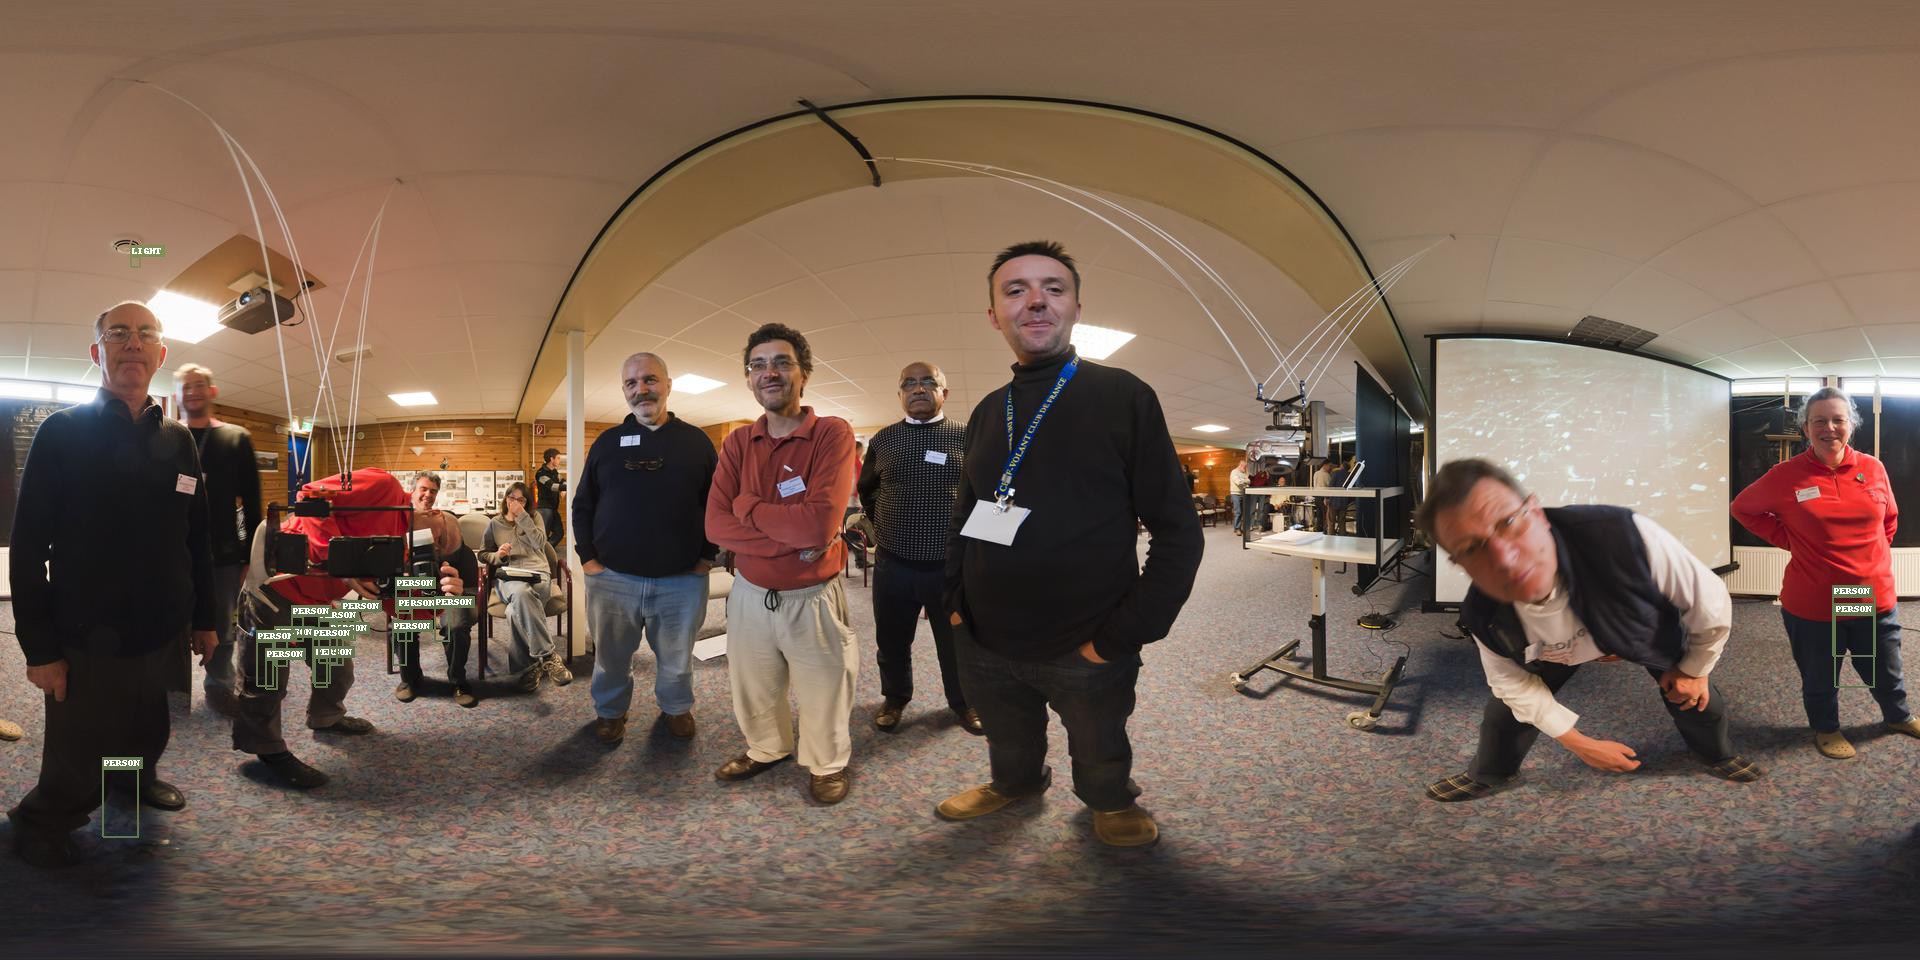
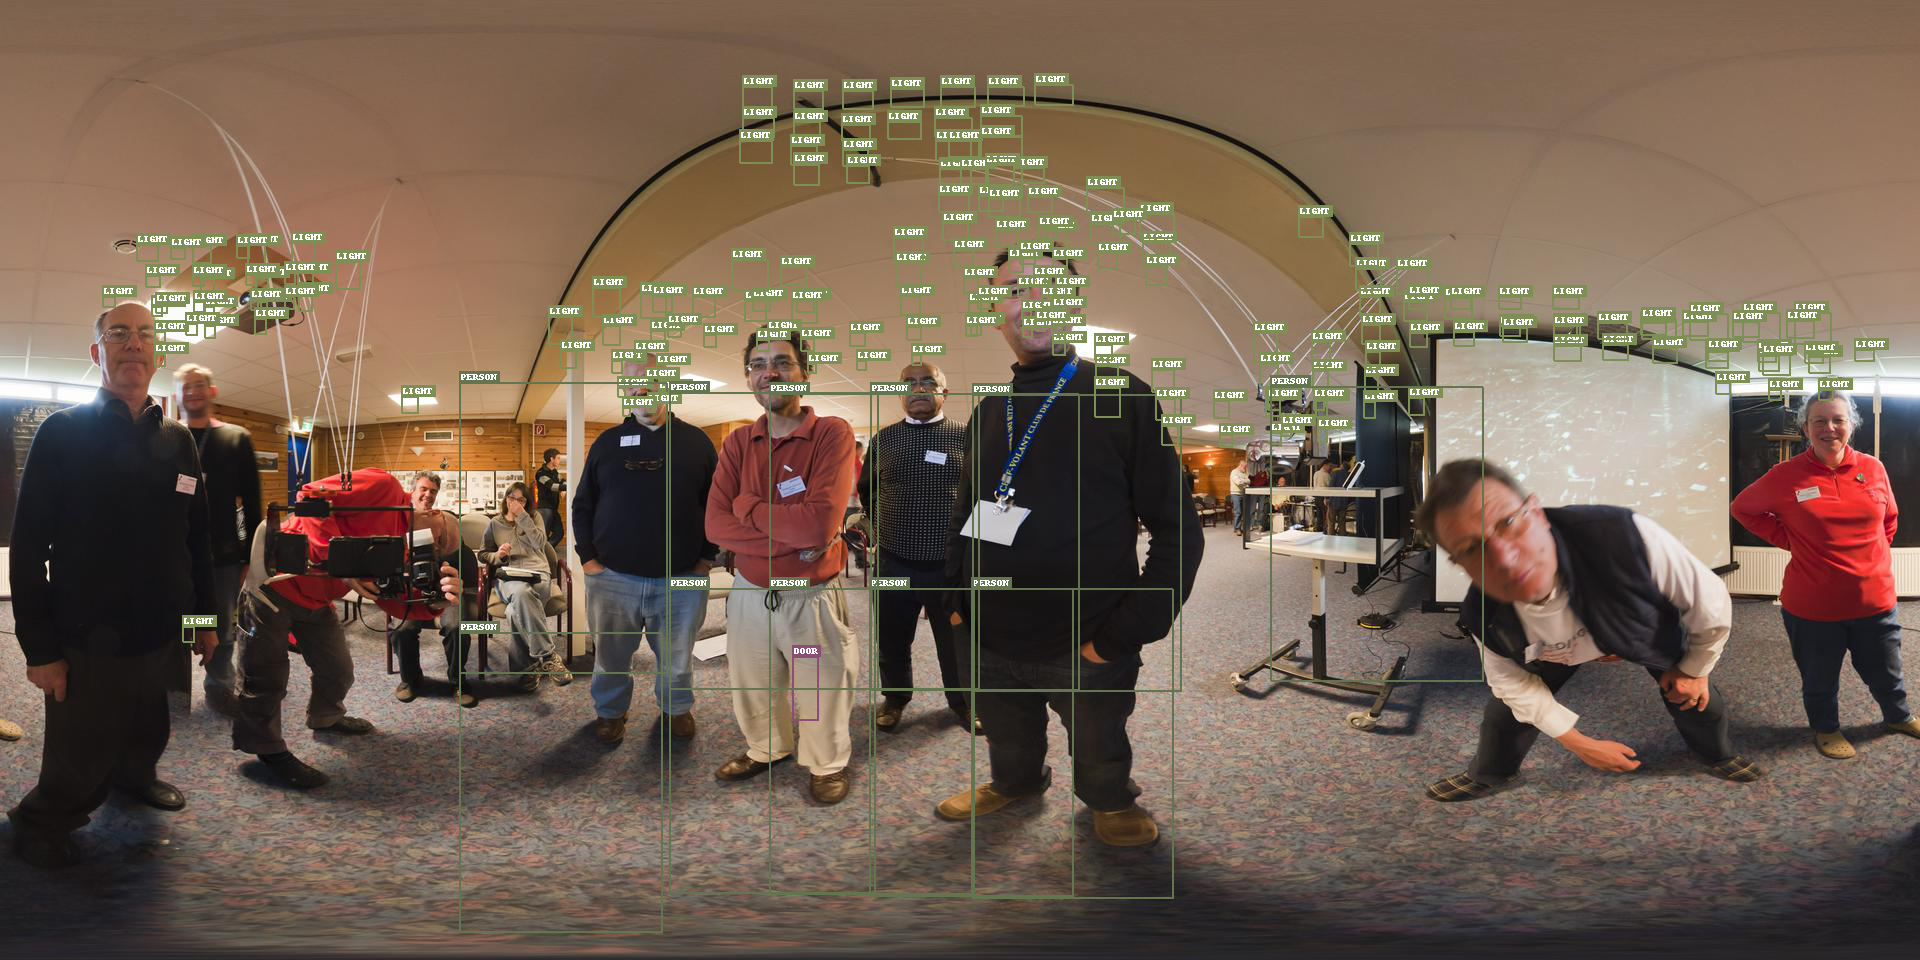
training and prediction working, but bad

diff --git a/detect.py b/detect.py
@@ -34,7 +34,7 @@ def detect(original_image, min_score, max_overlap, top_k, suppress=None):
     """
 
     # Transform
-    image = normalize(to_tensor(resize(original_image)))
+    image = to_tensor(resize(original_image))
 
     # Move to default device
     image = image.to(device)
@@ -100,6 +100,6 @@ if __name__ == '__main__':
     img_path = '/home/mstveras/ssd-360/img2.jpg'
     original_image = Image.open(img_path, mode='r')
     original_image = original_image.convert('RGB')
-    img = detect(original_image, min_score=0.2, max_overlap=0.5, top_k=200)
+    img = detect(original_image, min_score=0.1, max_overlap=0.5, top_k=200)
     img.save('output.png')
 

diff --git a/train.py b/train.py
@@ -75,7 +75,7 @@ def main():
     # Calculate total number of epochs to train and the epochs to decay learning rate at (i.e. convert iterations to epochs)
     # To convert iterations to epochs, divide iterations by the number of iterations per epoch
     # The paper trains for 120,000 iterations with a batch size of 32, decays after 80,000 and 100,000 iterations
-    epochs = iterations // (len(train_dataset) // 32)
+    epochs = 10
     decay_lr_at = [it // (len(train_dataset) // 32) for it in decay_lr_at]
 
     # Epochs
